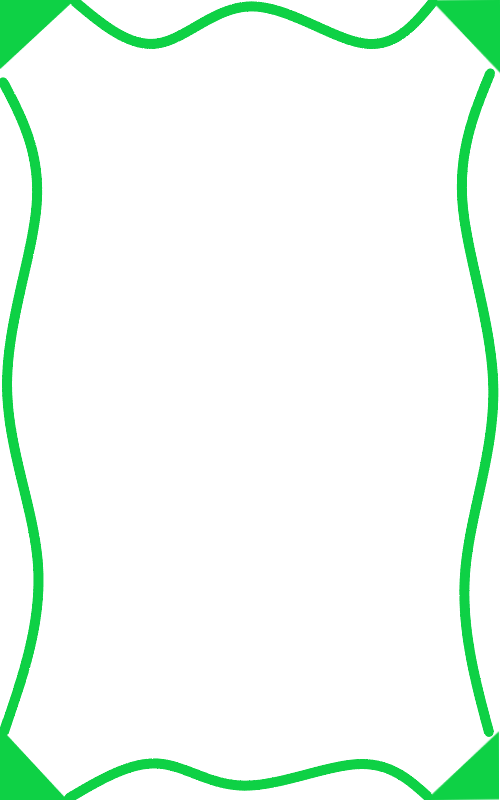
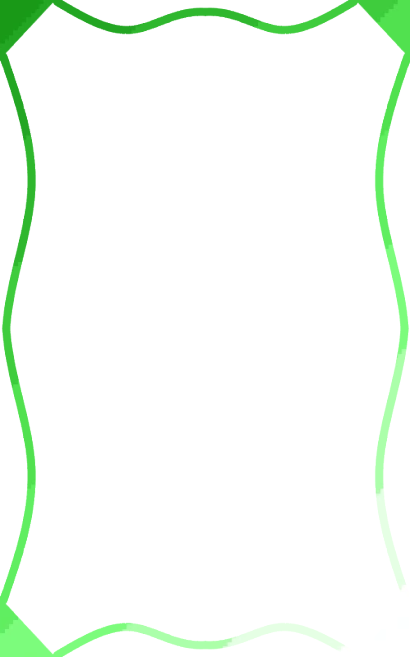
added gradient

Changed region(s): [[0.0, 0.0, 1.0, 1.0]]

diff --git a/commands/me.js b/commands/me.js
@@ -64,7 +64,7 @@ module.exports = {
             ProfileOptions.drawImage(img,0,0,whidth,hight);
         })
         const buffer = Profile.toBuffer("image/png");
-        await fs.writeFileSync("../Temp.png",buffer);
+        await fs.writeFileSync("./canvas/Temp.png",buffer);
 		/*
 		const embed = new Discord.MessageEmbed()
 			.setColor("#f54242")
@@ -78,6 +78,6 @@ module.exports = {
 				{ name: "id", value: message.author.id }
 			)
 		*/
-		message.channel.send({files:["../Temp.png"]});
+		message.channel.send({files:["./canvas/Temp.png"]});
 	}
 }
